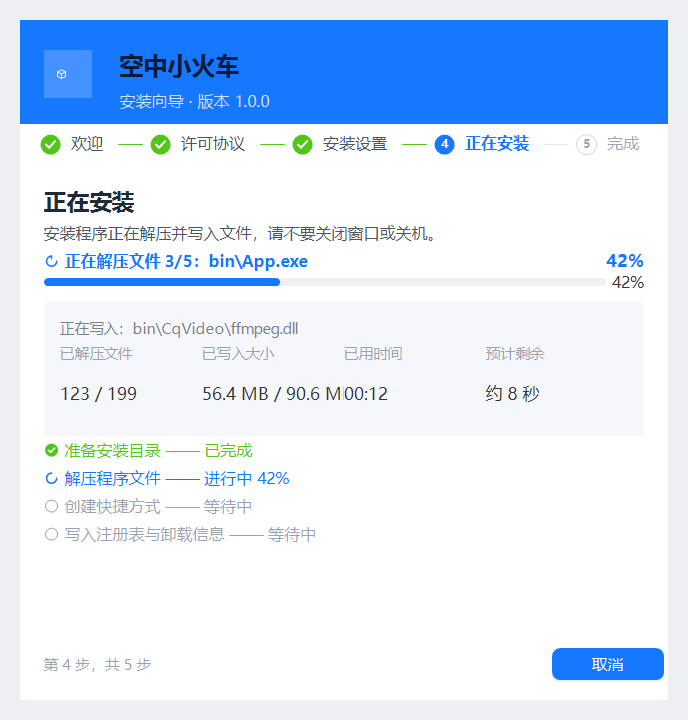
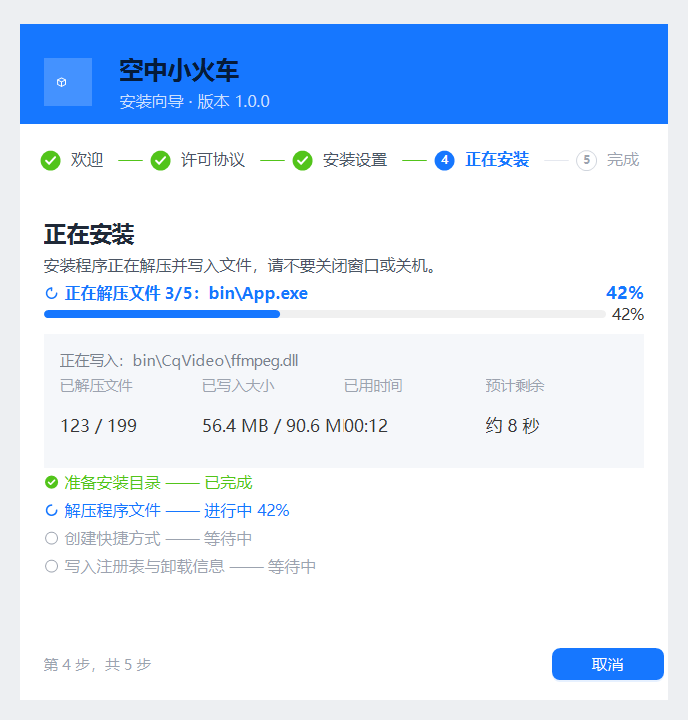
向导每页与设计稿自动比对上线 + 外壳几何修正
用户反馈「安装向导 UI 还没 1:1」。我承认前几轮都是凭肉眼判断，
这轮先把「用数据说话」的工具建起来。

verify-ui.ps1 新增第 6 节：向导每页与设计稿逐点比对
  比对区域 y ∈ [0,500]（覆盖品牌头、步骤条、页面标题与第一块内容），
  每 4px 采样一次，色差 ≤12 算命中，报告一致度百分比。
  设计稿每页高度不同（584~1012），取公共区段才可比。

首次运行的实测一致度（修之前）
  欢迎 85.9% / 许可协议 86.4% / 安装设置 83.1% / 正在安装 84.8% / 安装完成 82.5%
  → 确实都没到 1:1

按 y 区间拆解后定位到差异集中在两处，且影响全部 8 页：
  y  20- 99  79~86%   品牌头
  y 120-159  73~75%   步骤条  ← 最差

根因是外壳几何尺寸对不上设计稿：
  卡片顶边   设计稿 y=24，我是 y=20
  品牌头高   设计稿 100（24→124），我是 104（20→124）
  步骤条圆心 设计稿 y=160，我是 y=144（高了 16px）

修正 WizardForm.Designer.cs 的外壳几何
  卡片 (20,24) 648x676
  cardLayout 行高 100 / 72 / 100% / 72
  内容区起点 144 → 172

修正后的实测一致度
  欢迎 87.7%（+1.8）/ 许可协议 88.2%（+1.8）/ 安装设置 85.0%（+1.9）
  正在安装 86.8%（+2.0）/ 安装完成 84.2%（+1.7）

仍未达标，剩余差异在文字位置（品牌头副标题低约 10px）与页面内容间距。
第 6 节现在会把每页的一致度打出来，后续按数据逐项收敛，不再靠肉眼。

已知待办
  卸载向导 3 页的渲染不在 --render-ui 输出里，比对暂缺，下一轮补
  verify-ui 第 1 节仍显示「没有设计稿： False」，待查

验收：构建 0 警告、单元测试 182/182

diff --git a/src/Installer.UI/Forms/WizardForm.Designer.cs b/src/Installer.UI/Forms/WizardForm.Designer.cs
@@ -49,14 +49,14 @@ namespace Installer.UI.Forms
             //
             this.card.Back = System.Drawing.Color.White;
             this.card.Controls.Add(this.cardLayout);
-            this.card.Location = new System.Drawing.Point(20, 20);
+            this.card.Location = new System.Drawing.Point(20, 24);
             this.card.Margin = new System.Windows.Forms.Padding(0);
             this.card.Name = "card";
             this.card.Radius = 16;
             this.card.Shadow = 12;
             this.card.ShadowColor = System.Drawing.Color.FromArgb(((int)(((byte)(100)))), ((int)(((byte)(116)))), ((int)(((byte)(139)))));
             this.card.ShadowOpacity = 0.18F;
-            this.card.Size = new System.Drawing.Size(648, 680);
+            this.card.Size = new System.Drawing.Size(648, 676);
             this.card.TabIndex = 0;
             //
             // cardLayout —— 品牌头 / 步骤条 / 内容 / 底栏
@@ -73,11 +73,11 @@ namespace Installer.UI.Forms
             this.cardLayout.Margin = new System.Windows.Forms.Padding(0);
             this.cardLayout.Name = "cardLayout";
             this.cardLayout.RowCount = 4;
-            this.cardLayout.RowStyles.Add(new System.Windows.Forms.RowStyle(System.Windows.Forms.SizeType.Absolute, 104F));
-            this.cardLayout.RowStyles.Add(new System.Windows.Forms.RowStyle(System.Windows.Forms.SizeType.Absolute, 40F));
+            this.cardLayout.RowStyles.Add(new System.Windows.Forms.RowStyle(System.Windows.Forms.SizeType.Absolute, 100F));
+            this.cardLayout.RowStyles.Add(new System.Windows.Forms.RowStyle(System.Windows.Forms.SizeType.Absolute, 72F));
             this.cardLayout.RowStyles.Add(new System.Windows.Forms.RowStyle(System.Windows.Forms.SizeType.Percent, 100F));
             this.cardLayout.RowStyles.Add(new System.Windows.Forms.RowStyle(System.Windows.Forms.SizeType.Absolute, 72F));
-            this.cardLayout.Size = new System.Drawing.Size(648, 680);
+            this.cardLayout.Size = new System.Drawing.Size(648, 676);
             this.cardLayout.TabIndex = 0;
             //
             // headerView —— 蓝色品牌区
@@ -86,26 +86,26 @@ namespace Installer.UI.Forms
             this.headerView.Location = new System.Drawing.Point(0, 0);
             this.headerView.Margin = new System.Windows.Forms.Padding(0);
             this.headerView.Name = "headerView";
-            this.headerView.Size = new System.Drawing.Size(648, 104);
+            this.headerView.Size = new System.Drawing.Size(648, 100);
             this.headerView.TabIndex = 0;
             //
             // stepBar —— 步骤条
             //
             this.stepBar.Dock = System.Windows.Forms.DockStyle.Fill;
-            this.stepBar.Location = new System.Drawing.Point(0, 104);
+            this.stepBar.Location = new System.Drawing.Point(0, 100);
             this.stepBar.Margin = new System.Windows.Forms.Padding(0);
             this.stepBar.Name = "stepBar";
-            this.stepBar.Size = new System.Drawing.Size(648, 40);
+            this.stepBar.Size = new System.Drawing.Size(648, 72);
             this.stepBar.TabIndex = 1;
             //
             // pnlContent —— 页面宿主
             //
             this.pnlContent.Dock = System.Windows.Forms.DockStyle.Fill;
-            this.pnlContent.Location = new System.Drawing.Point(0, 144);
+            this.pnlContent.Location = new System.Drawing.Point(0, 172);
             this.pnlContent.Margin = new System.Windows.Forms.Padding(0);
             this.pnlContent.Name = "pnlContent";
             this.pnlContent.Padding = new System.Windows.Forms.Padding(24, 20, 24, 0);
-            this.pnlContent.Size = new System.Drawing.Size(648, 464);
+            this.pnlContent.Size = new System.Drawing.Size(648, 432);
             this.pnlContent.TabIndex = 2;
             //
             // footerLayout
@@ -116,7 +116,7 @@ namespace Installer.UI.Forms
             this.footerLayout.Controls.Add(this.lblStepInfo, 0, 0);
             this.footerLayout.Controls.Add(this.buttonFlow, 1, 0);
             this.footerLayout.Dock = System.Windows.Forms.DockStyle.Fill;
-            this.footerLayout.Location = new System.Drawing.Point(0, 608);
+            this.footerLayout.Location = new System.Drawing.Point(0, 604);
             this.footerLayout.Margin = new System.Windows.Forms.Padding(0);
             this.footerLayout.Name = "footerLayout";
             this.footerLayout.RowCount = 1;

diff --git a/src/Installer.UI/Views/WizardHeaderView.Designer.cs b/src/Installer.UI/Views/WizardHeaderView.Designer.cs
@@ -66,8 +66,8 @@ namespace Installer.UI.Views
             this.layout.Margin = new System.Windows.Forms.Padding(0);
             this.layout.Name = "layout";
             this.layout.RowCount = 2;
-            this.layout.RowStyles.Add(new System.Windows.Forms.RowStyle(System.Windows.Forms.SizeType.Absolute, 30F));
-            this.layout.RowStyles.Add(new System.Windows.Forms.RowStyle(System.Windows.Forms.SizeType.Absolute, 24F));
+            this.layout.RowStyles.Add(new System.Windows.Forms.RowStyle(System.Windows.Forms.SizeType.Absolute, 26F));
+            this.layout.RowStyles.Add(new System.Windows.Forms.RowStyle(System.Windows.Forms.SizeType.Absolute, 26F));
             this.layout.SetRowSpan(this.iconPanel, 2);
             this.layout.Size = new System.Drawing.Size(600, 76);
             this.layout.TabIndex = 0;
@@ -76,7 +76,7 @@ namespace Installer.UI.Views
             //
             this.iconPanel.Controls.Add(this.lblIcon);
             this.iconPanel.Location = new System.Drawing.Point(0, 2);
-            this.iconPanel.Margin = new System.Windows.Forms.Padding(0, 2, 28, 0);
+            this.iconPanel.Margin = new System.Windows.Forms.Padding(0, 6, 28, 0);
             this.iconPanel.Name = "iconPanel";
             this.iconPanel.Radius = 12;
             this.iconPanel.Size = new System.Drawing.Size(48, 48);
